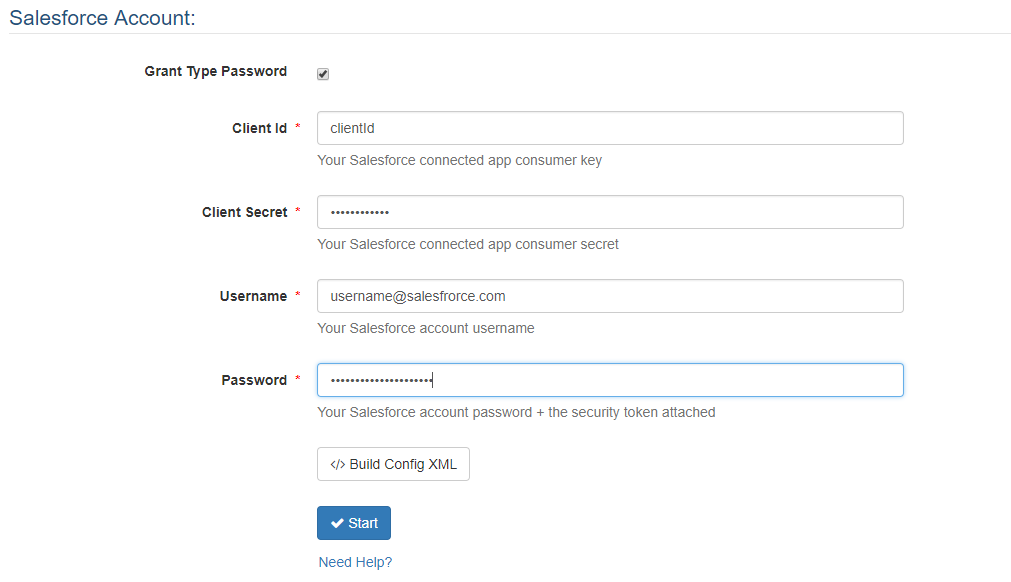
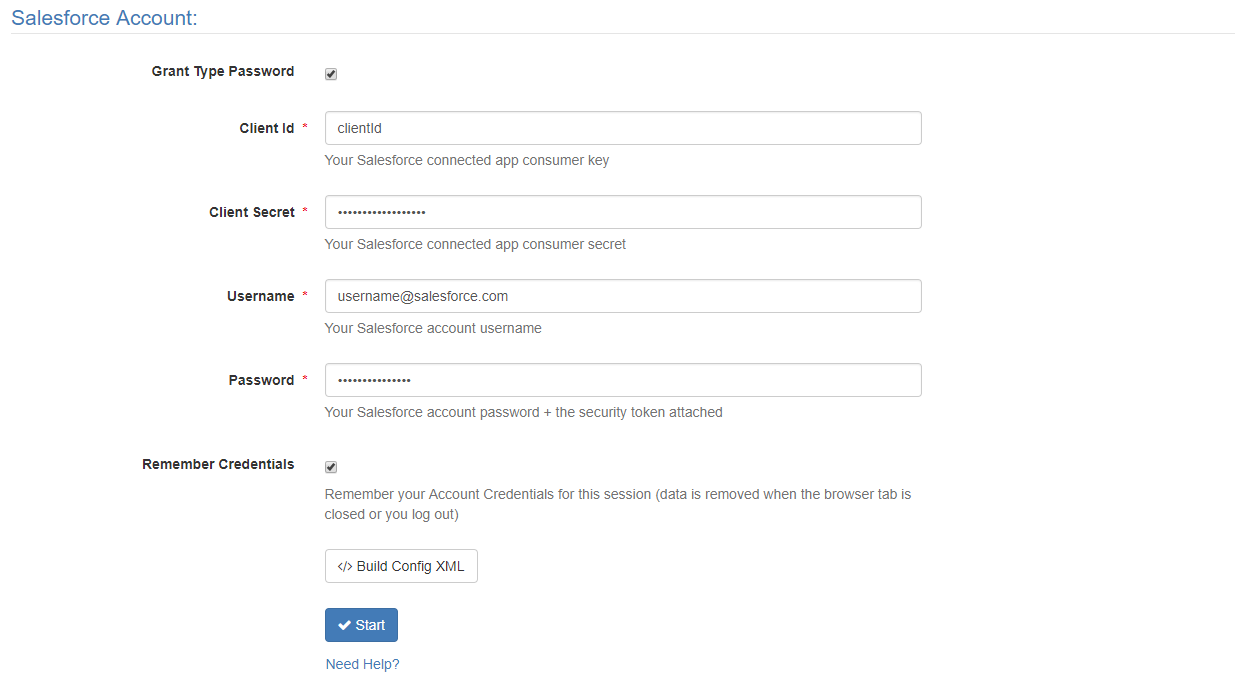
Update doc for the salesforce page and the config page sidebar.

diff --git a/pages/ui/ui-salesforce.md b/pages/ui/ui-salesforce.md
@@ -9,9 +9,10 @@ summary: The Salesforce Config page help you to generate some config xml to inte
 
 ## Prerequisite ##
 
-To be able to generate salesforce xml templates you need to have the required **adp-apache-http** and **interlok-oauth-salesforce** [optional component installed](adapter-optional-components.html) into `${adapter.home}/lib` directory.
+To be able to generate salesforce xml templates or copy the xml config to the Config page clipboard you need to have the required **adp-apache-http** and **interlok-oauth-salesforce** [optional component installed](adapter-optional-components.html) into `${adapter.home}/lib` directory.
+If you are not using those two optional components you will still be able to use the page but you will get a warning message. ![Salesforce warning message](./images/ui-user-guide/salesforce-warning-message.png)
 
-You will also need to create a **Connected App** in your Salesforce account. More help on Salesforce developers site [here](https://developer.salesforce.com/docs/atlas.en-us.api_rest.meta/api_rest/intro_defining_remote_access_applications.htm) and [here](https://developer.salesforce.com/page/Connected_Apps) and [here](https://developer.salesforce.com/page/Digging_Deeper_into_OAuth_2.0_on_Force.com).
+You also need to create a **Connected App** in your Salesforce account. More help on Salesforce developers site [here](https://developer.salesforce.com/docs/atlas.en-us.api_rest.meta/api_rest/intro_defining_remote_access_applications.htm) and [here](https://developer.salesforce.com/page/Connected_Apps) and [here](https://developer.salesforce.com/page/Digging_Deeper_into_OAuth_2.0_on_Force.com).
 
 ## Getting Started ##
 
@@ -38,7 +39,11 @@ The first thing you will need to do in the Salesforce Config page is to authenti
   - **Password:** Salesforce account password + the security token. You can read more about security token on [Salesforce help site](https://help.salesforce.com/articleView?id=user_security_token.htm&type=0).
  
  ![salesforce oauth password grant](./images/ui-user-guide/salesforce-oauth-password-grant.png)
+ 
+You can remember the Salesforce credentials for the current session by keeping the checkbox ticked (Since 3.6.6).
+{% include note.html content="The credentials are stored in the browser session storage and will be cleared on log out or when the browser tab or window is closed." %}
 
+The Salesforce Account panel also provide a **Build Config XML** button to generate an adapter service xml to use in the UI Config page.
 
 ### Api Version ###
 
@@ -67,4 +72,15 @@ The SOQL panel also provide a **Build Config XML** button to generate an adapter
 
 The Resource panel lists all the SObjects retrieve using the provided SOQL. From this panel you can add, edit and delete SObjects.
 For each actions you can generate a service xml to use in the UI Config page with the **Build Config XML** buttons.
+
+### Build Config XML ###
+
+All the **Build Config XML** modal (authentication, resource listing, fetching, editing, creating or deleting) have a **Copy to Clipboard** and a **Save as Template** button.
+
+![Salesforce SObjects list](./images/ui-user-guide/salesforce-build-config-xml.png)
+
+The **Copy to Clipboard** button will copy the displayed xml into a service component in the UI Clipboard and be can used by dragging it from the [Sidebar Clipboard in the Config page](ui-config-sidebar.html#clipboard-sidebar) (Since 3.6.6).
+
+The **Save as Template** button will save the displayed xml into a service template usable in the Config page.
+{% include note.html content="If the config contains some password they will be encoded in the template." %}
 

diff --git a/pages/ui/ui-config-sidebar.md b/pages/ui/ui-config-sidebar.md
@@ -10,31 +10,54 @@ summary: The Config Page sidebar allows you to drag and drop components into you
 
 ## Getting Started ##
 
-To open the config pages sidebar, you use the sidebar button thats next to the apply config button.
+To open the config pages sidebar, you use the sidebar button which is next to the Apply Config button.
 
 The Config page sidebar toggle button:
 
 ![Config page sidebar toggle button](./images/ui-user-guide/config-sidebar.png)
 
-
 ## Introduction sidebar ##
 
-The Config page sidebar introduction panel:
+The introduction panel lists and explains the component types used in the UI Config page has links to Interlok doc and javadoc sites.
 
-![Config page sidebar toggle button](./images/ui-user-guide/config-sidebar-intro.png)
+![Config page sidebar intro](./images/ui-user-guide/config-sidebar-intro.png)
 
+## Components sidebar##
+
+The components panel allows to add Interlok component in the Config page by dragging them and dropping them into the relevant area (Since 3.6.5).
+
+The components are organised into three different categories:
+
+  - **By Group:**
+    - **Bookmarks:** The list of components bookmarked by a user. A component can be bookmarked by clicking on the start icon on its right side.
+	A bookmark can be removed by clicking again on the selected star on its right side.
+    - **Deprecated:** The list of deprecated component for the current version of the UI.
+	It is advised to avoid using deprecated component as they may be removed in following releases.
+    - **Popular:** List some popular components.
+  - **By Tag:** You can select a tag in the dropdown and that will display all the components attached to this tag.
+  A search bar is available when the list has more than ten components.
+  - **By Type:** You can select a component type in the dropdown and that will display all the component and templates available in the UI for this type.
+  A search bar is available when the list has more than ten components.
+
+
+![Config page sidebar components](./images/ui-user-guide/config-sidebar-components.png)
+
+## Clipboard sidebar##
+
+The clipboard panel allows to add Interlok copied component in the Config page by dragging them and dropping them into the relevant area (Since 3.6.6).
+
+The component are copied into the Clipboard by clicking on the **Copy** ![Config copy button](./images/ui-user-guide/config-copy-button.png) button on each of them or by using the **Copy to Clipboard** button the Salesforce config page.
+
+The clipboard is a FIFO list (First in first out) and contains up to four components of each type and up to six service components.
+
+{% include note.html content="Data from the Clipboard is stored in the browser session storage and will be cleared on log out or when the browser tab or window is closed." %}
+
+![Config page sidebar clipboard](./images/ui-user-guide/config-sidebar-clipboard.png)
 
 ## Shortcuts sidebar ##
 
-The Config page sidebar shortcuts panel:
+The shortcuts panel list few keyboard shortcuts that can be used in the Config page.
 
-![Config page sidebar toggle button](./images/ui-user-guide/config-sidebar-shortcuts.png)
-
-
-## Components sidebar ##
-
-The Config page sidebar components panel:
-
-![Config page sidebar toggle button](./images/ui-user-guide/config-sidebar-components.png)
+![Config page sidebar shortcuts](./images/ui-user-guide/config-sidebar-shortcuts.png)
 
 
